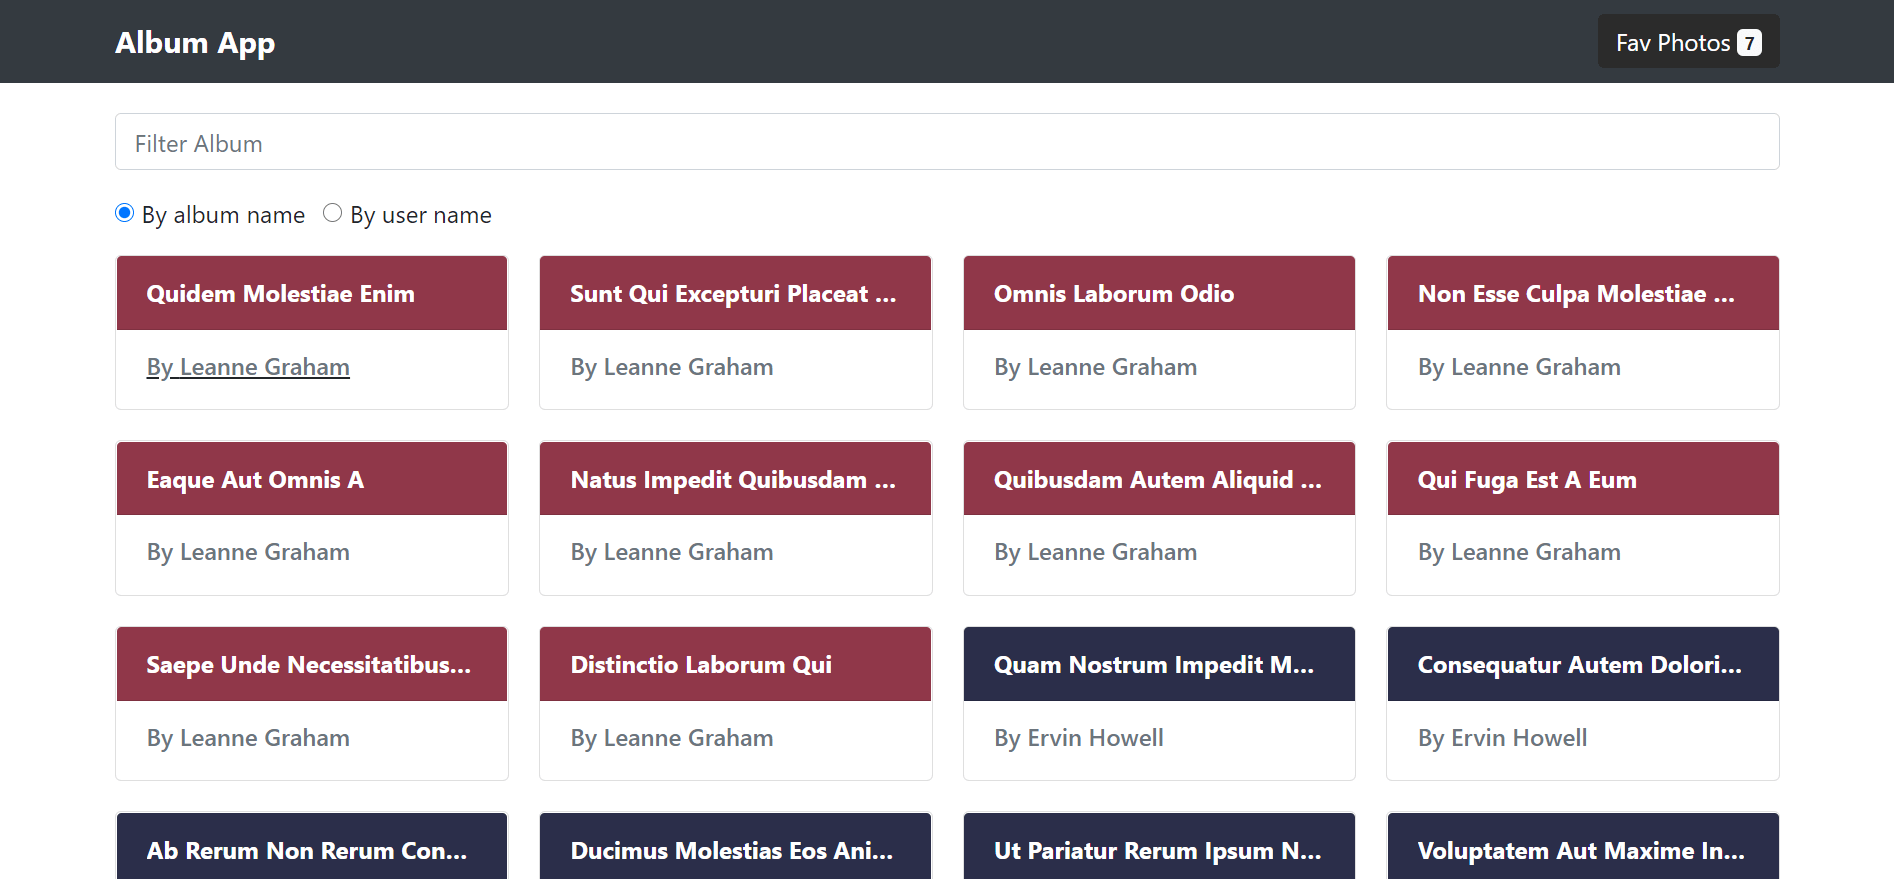
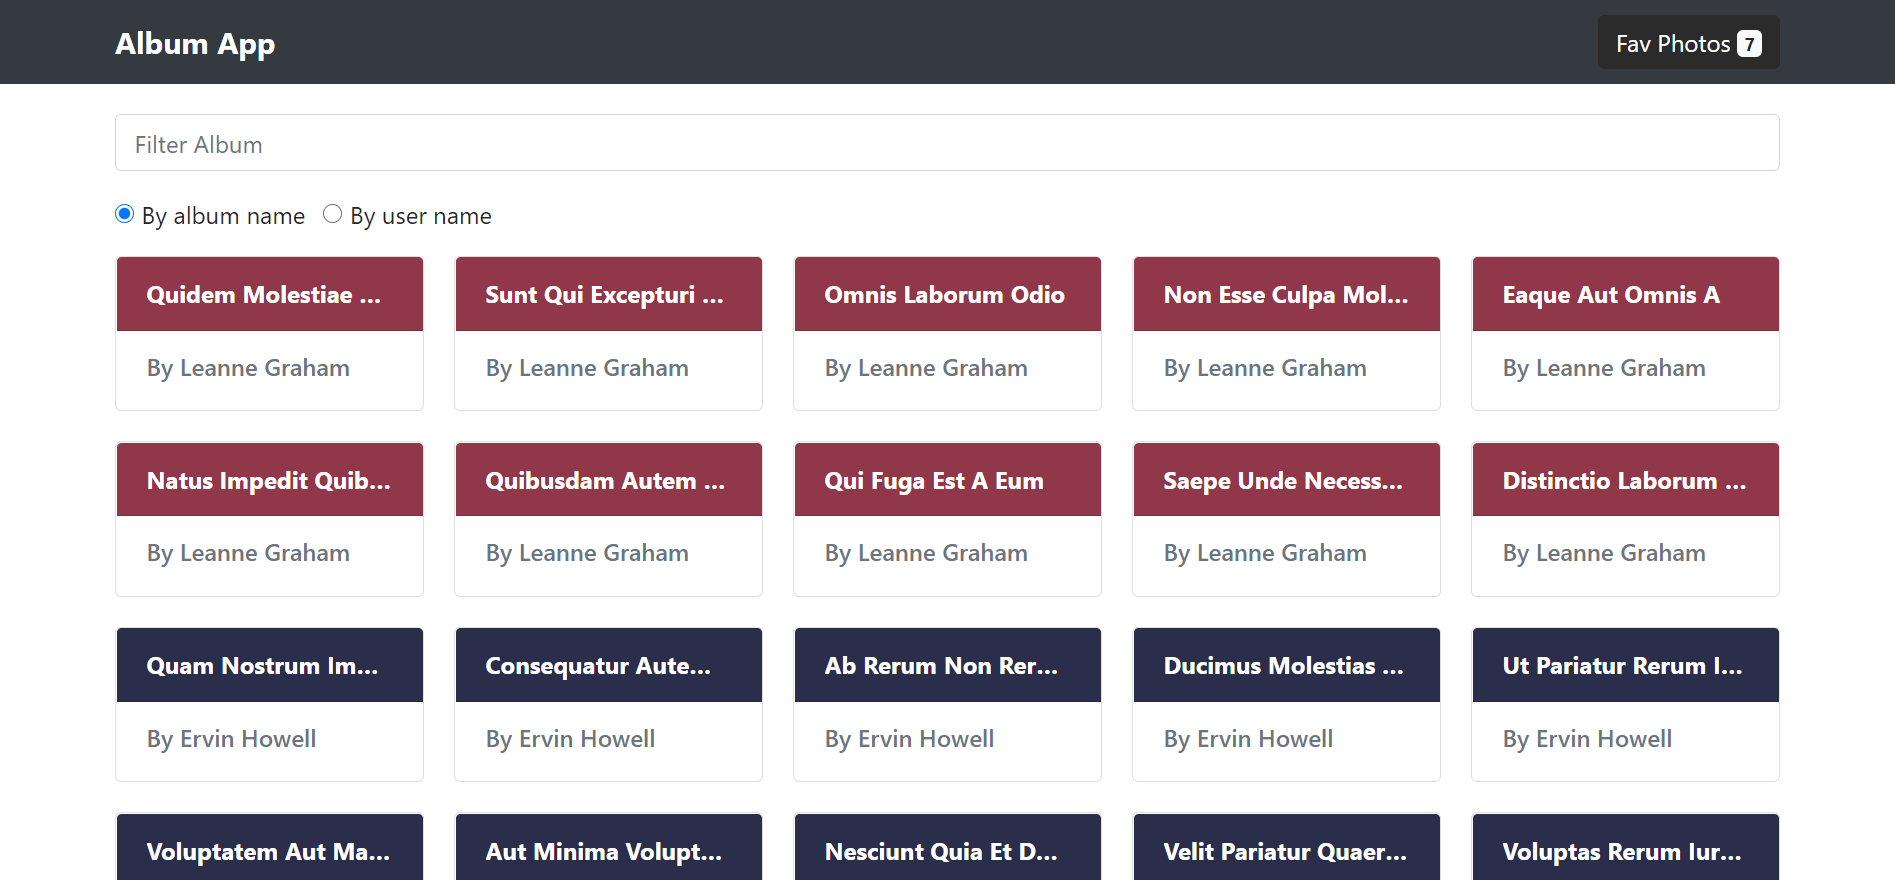
update grid condition and renew preview

diff --git a/src/components/MainPage/MainPage.scss b/src/components/MainPage/MainPage.scss
@@ -22,4 +22,10 @@
       grid-template-columns: repeat(4, 1fr);
     }
   }
+
+  @media screen and (min-width: 992px) {
+    .display-grid{
+      grid-template-columns: repeat(5, 1fr);
+    }
+  }
 }
